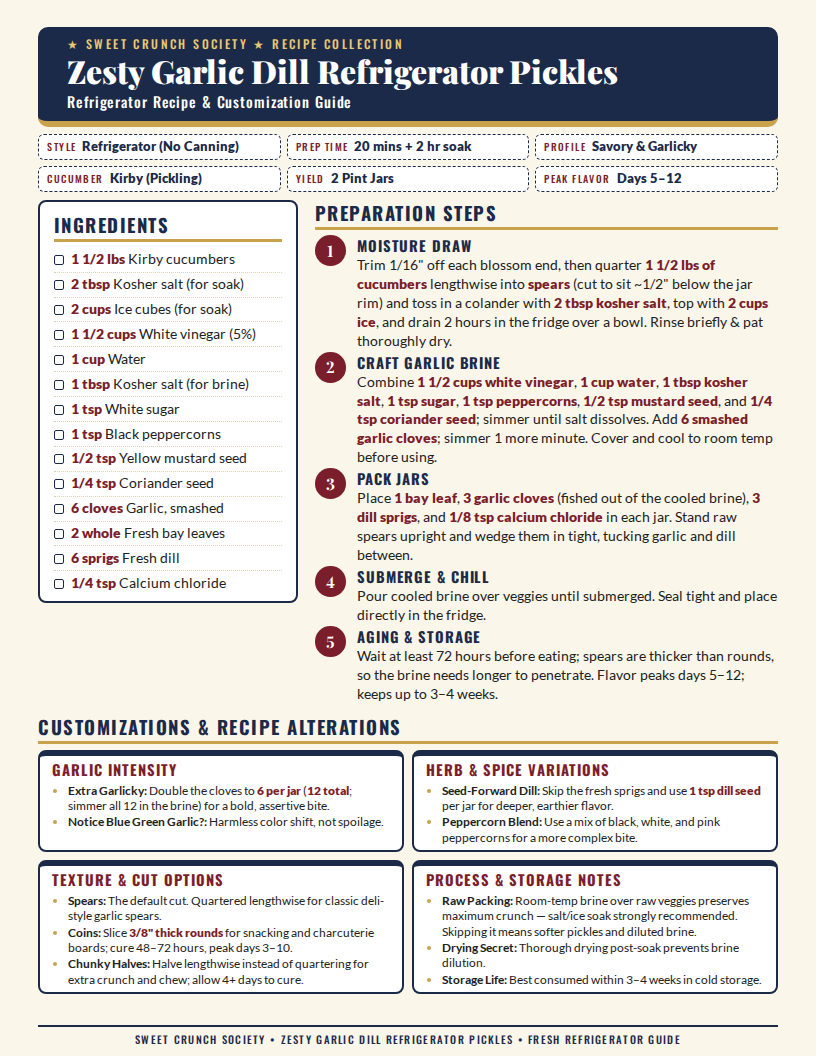
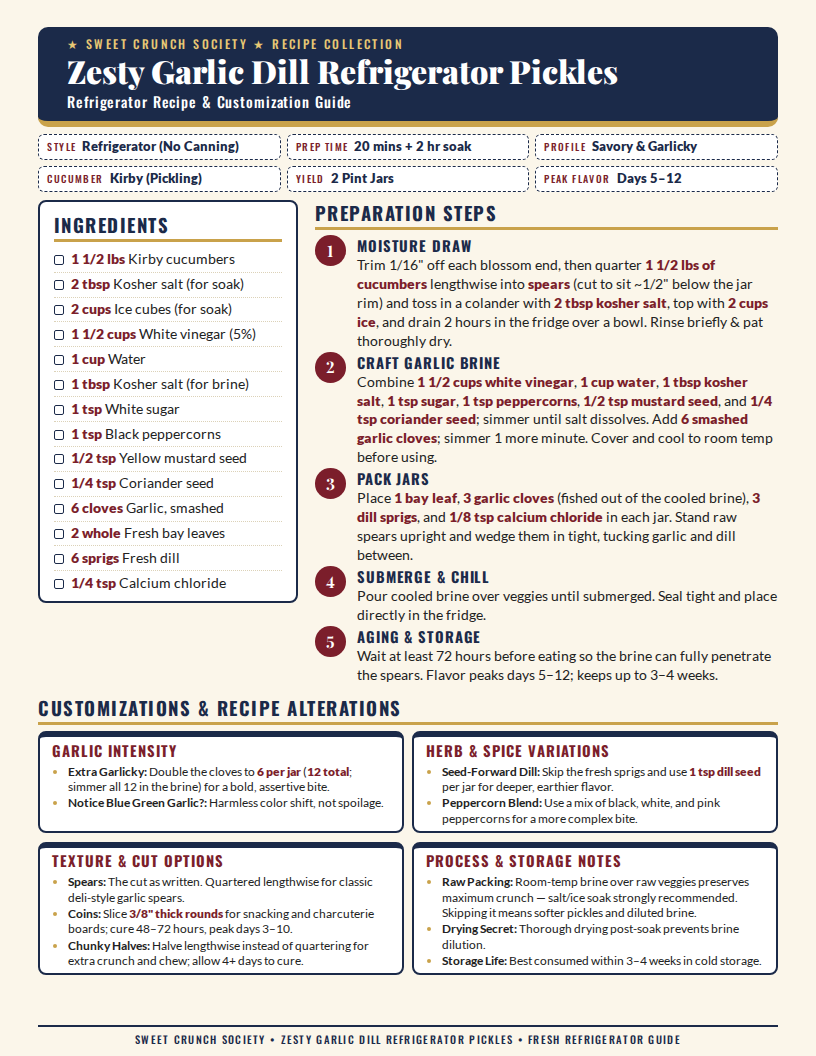
docs: make zesty card stand alone, drop references to other recipe
The zesty card compared spears to rounds as if readers had seen the
Bread & Butter card, which they won't have when printing this one on its
own. Aging step now says to wait 72+ hours "so the brine can fully
penetrate the spears" instead of "spears are thicker than rounds", and
the Texture card calls Spears "the cut as written" rather than "the
default". The Coins variation stays, since it is a self-contained
alternative cut with its own timing.

Regenerated docs/preview-zesty.png; page still fits one Letter sheet
(content ends ~975px, footer starts at 1025px).

Changed region(s): [[0.0306, 0.5938, 0.9498, 0.9375]]

diff --git a/index-zesty.html b/index-zesty.html
@@ -165,7 +165,7 @@
           <li><b>Craft Garlic Brine</b>Combine <strong>1 1/2 cups white vinegar</strong>, <strong>1 cup water</strong>, <strong>1 tbsp kosher salt</strong>, <strong>1 tsp sugar</strong>, <strong>1 tsp peppercorns</strong>, <strong>1/2 tsp mustard seed</strong>, and <strong>1/4 tsp coriander seed</strong>; simmer until salt dissolves. Add <strong>6 smashed garlic cloves</strong>; simmer 1 more minute. Cover and cool to room temp before using.</li>
           <li><b>Pack Jars</b>Place <strong>1 bay leaf</strong>, <strong>3 garlic cloves</strong> (fished out of the cooled brine), <strong>3 dill sprigs</strong>, and <strong>1/8 tsp calcium chloride</strong> in each jar. Stand raw spears upright and wedge them in tight, tucking garlic and dill between.</li>
           <li><b>Submerge &amp; Chill</b>Pour cooled brine over veggies until submerged. Seal tight and place directly in the fridge.</li>
-          <li><b>Aging &amp; Storage</b>Wait at least 72 hours before eating; spears are thicker than rounds, so the brine needs longer to penetrate. Flavor peaks <span style="white-space:nowrap">days 5–12</span>; keeps up to 3–4 weeks.</li>
+          <li><b>Aging &amp; Storage</b>Wait at least 72 hours before eating so the brine can fully penetrate the spears. Flavor peaks <span style="white-space:nowrap">days 5–12</span>; keeps up to 3–4 weeks.</li>
         </ol>
       </section>
     </div>
@@ -189,7 +189,7 @@
         <div class="card">
           <h3>Texture &amp; Cut Options</h3>
           <ul>
-            <li><b>Spears:</b> The default cut. Quartered lengthwise for classic deli-style garlic spears.</li>
+            <li><b>Spears:</b> The cut as written. Quartered lengthwise for classic deli-style garlic spears.</li>
             <li><b>Coins:</b> Slice <strong>3/8" thick rounds</strong> for snacking and charcuterie boards; cure 48–72 hours, peak days 3–10.</li>
             <li><b>Chunky Halves:</b> Halve lengthwise instead of quartering for extra crunch and chew; allow 4+ days to cure.</li>
           </ul>
